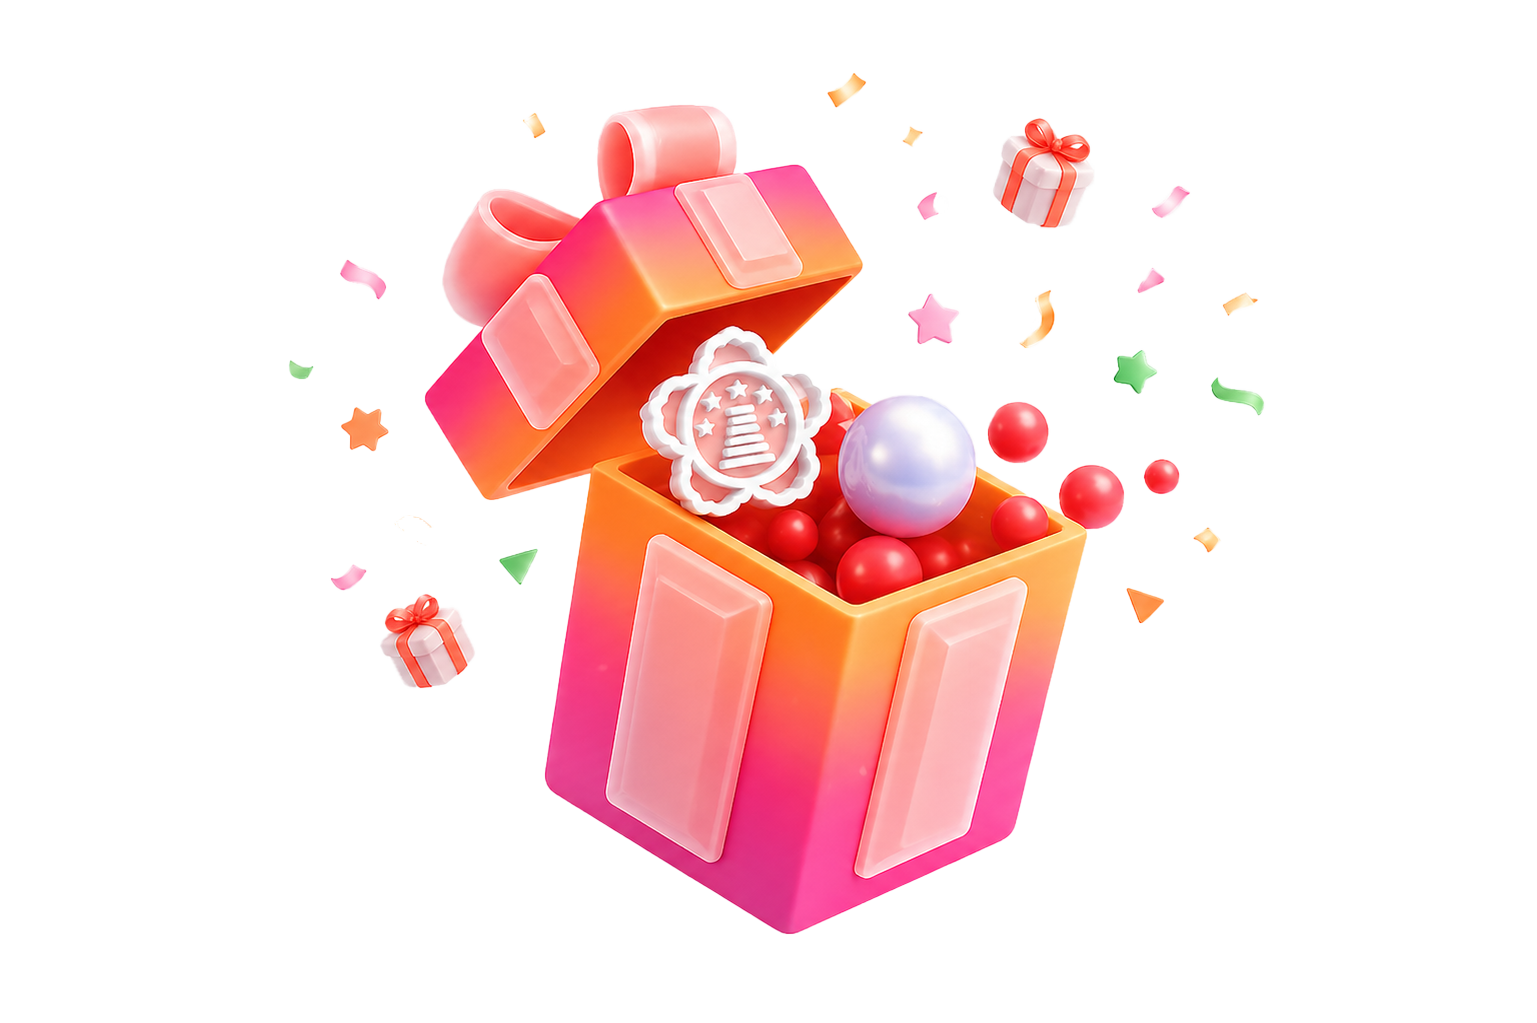
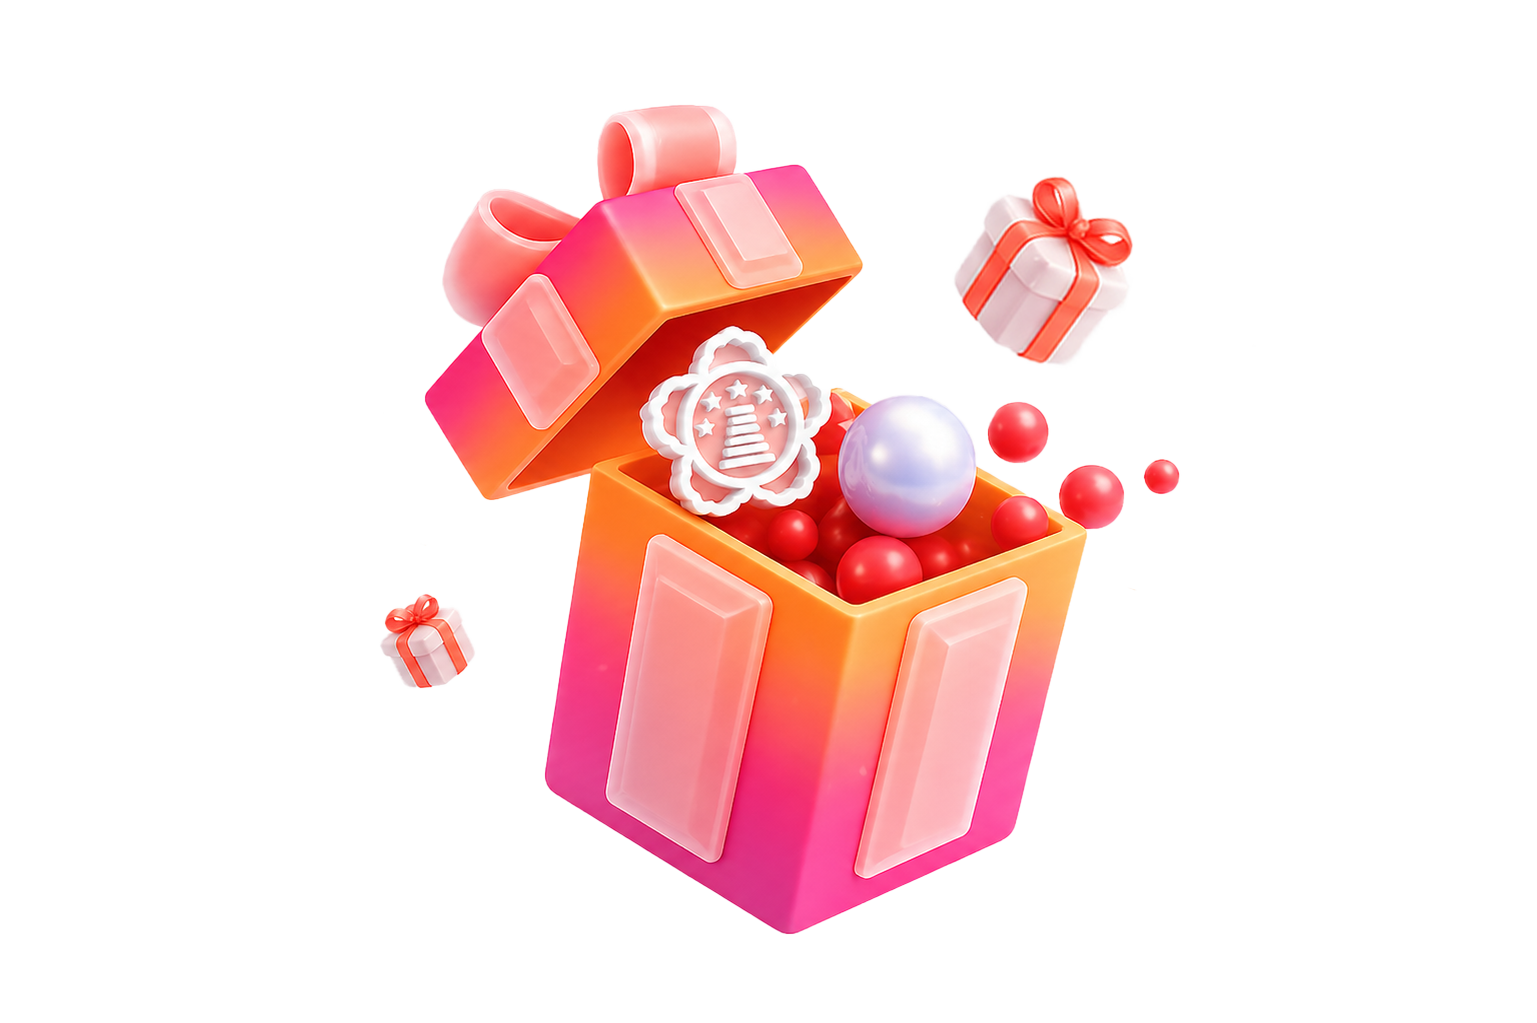
[HOTFIX] 메인페이지 2차 피드백 오류 수정 (#95)

diff --git a/src/mocks/home.ts b/src/mocks/home.ts
@@ -23,8 +23,7 @@ export const MOCK_LINEUP: DayLineup[] = [
       { src: nctWish, alt: 'NCT WISH' },
     ],
     schedules: [
-      { name: 'KNU 가요제\n및 시상식', startTime: '18:00', endTime: '19:00' },
-      { name: "축하공연\n'권은비'", startTime: '19:00', endTime: '19:30' },
+      { name: 'KNU 가요제\n및 시상식', startTime: '18:30', endTime: '19:30' },
       { name: '개회식', startTime: '19:30', endTime: '19:50' },
       { name: '드론쇼', startTime: '19:50', endTime: '20:00' },
       {
@@ -32,7 +31,9 @@ export const MOCK_LINEUP: DayLineup[] = [
         startTime: '20:00',
         endTime: '21:00',
       },
-      { name: "축하공연\n'NCT WISH'", startTime: '21:00', endTime: '21:30' },
+      { name: "축하공연\n'AMbiO'", startTime: '21:00', endTime: '21:30' },
+      { name: "축하공연\n'NCT WISH'", startTime: '21:30', endTime: '22:00' },
+      { name: "축하공연\n'권은비'", startTime: '22:00', endTime: '22:30' },
     ],
   },
   {
@@ -45,8 +46,8 @@ export const MOCK_LINEUP: DayLineup[] = [
     ],
     schedules: [
       { name: '동아리 공연', startTime: '18:30', endTime: '19:30' },
-      { name: "축하공연\n'아이칠린'", startTime: '19:30', endTime: '20:00' },
-      { name: "축하공연\n'지코'", startTime: '20:00', endTime: '20:30' },
+      { name: "축하공연\n'지코'", startTime: '19:30', endTime: '20:00' },
+      { name: "축하공연\n'아이칠린'", startTime: '20:00', endTime: '20:30' },
       { name: '불꽃쇼', startTime: '20:30', endTime: '20:40' },
       { name: "축하공연\n'선미'", startTime: '20:40', endTime: '21:10' },
       { name: "축하공연\n'이영지'", startTime: '21:10', endTime: '21:40' },

diff --git a/src/pages/HomePage.tsx b/src/pages/HomePage.tsx
@@ -27,7 +27,7 @@ export default function HomePage() {
 
   return (
     <div className="flex flex-col pb-16">
-      <section className="relative flex min-h-dvh flex-col pb-25 pt-20">
+      <section className="relative flex min-h-dvh flex-col pb-8 pt-20">
         <div aria-hidden className="absolute inset-0 pointer-events-none">
           <img
             src={heroBg}
@@ -126,7 +126,7 @@ export default function HomePage() {
               title="원하는 주막에 실시간 대기 등록하기"
               imageSrc={cardBg1}
               illustrationSrc={illustBooth}
-              illustrationClassName="top-7 scale-120"
+              illustrationClassName="top-7.5 scale-120"
               to="/taverns"
             />
           </div>

diff --git a/src/components/home/CountdownTimer.tsx b/src/components/home/CountdownTimer.tsx
@@ -1,6 +1,6 @@
 import { useState, useEffect } from 'react';
 
-const FESTIVAL_START = new Date('2026-05-20T18:00:00');
+const FESTIVAL_START = new Date(2026, 4, 20, 9, 0, 0);
 
 type TimeLeft = {
   days: number;

diff --git a/src/components/home/TodayLineup.tsx b/src/components/home/TodayLineup.tsx
@@ -15,6 +15,7 @@ export default function TodayLineup({ data }: TodayLineupProps) {
   const today = now.getDate();
   const isFestivalDay = now.getMonth() + 1 === FESTIVAL_MONTH && FESTIVAL_DAYS.includes(today);
   const activeDay = isFestivalDay ? today : 21;
+  if (activeDay === 20) return null;
   const dayData = data.find((d) => d.day === activeDay) ?? data[0];
   if (!dayData) return null;
 